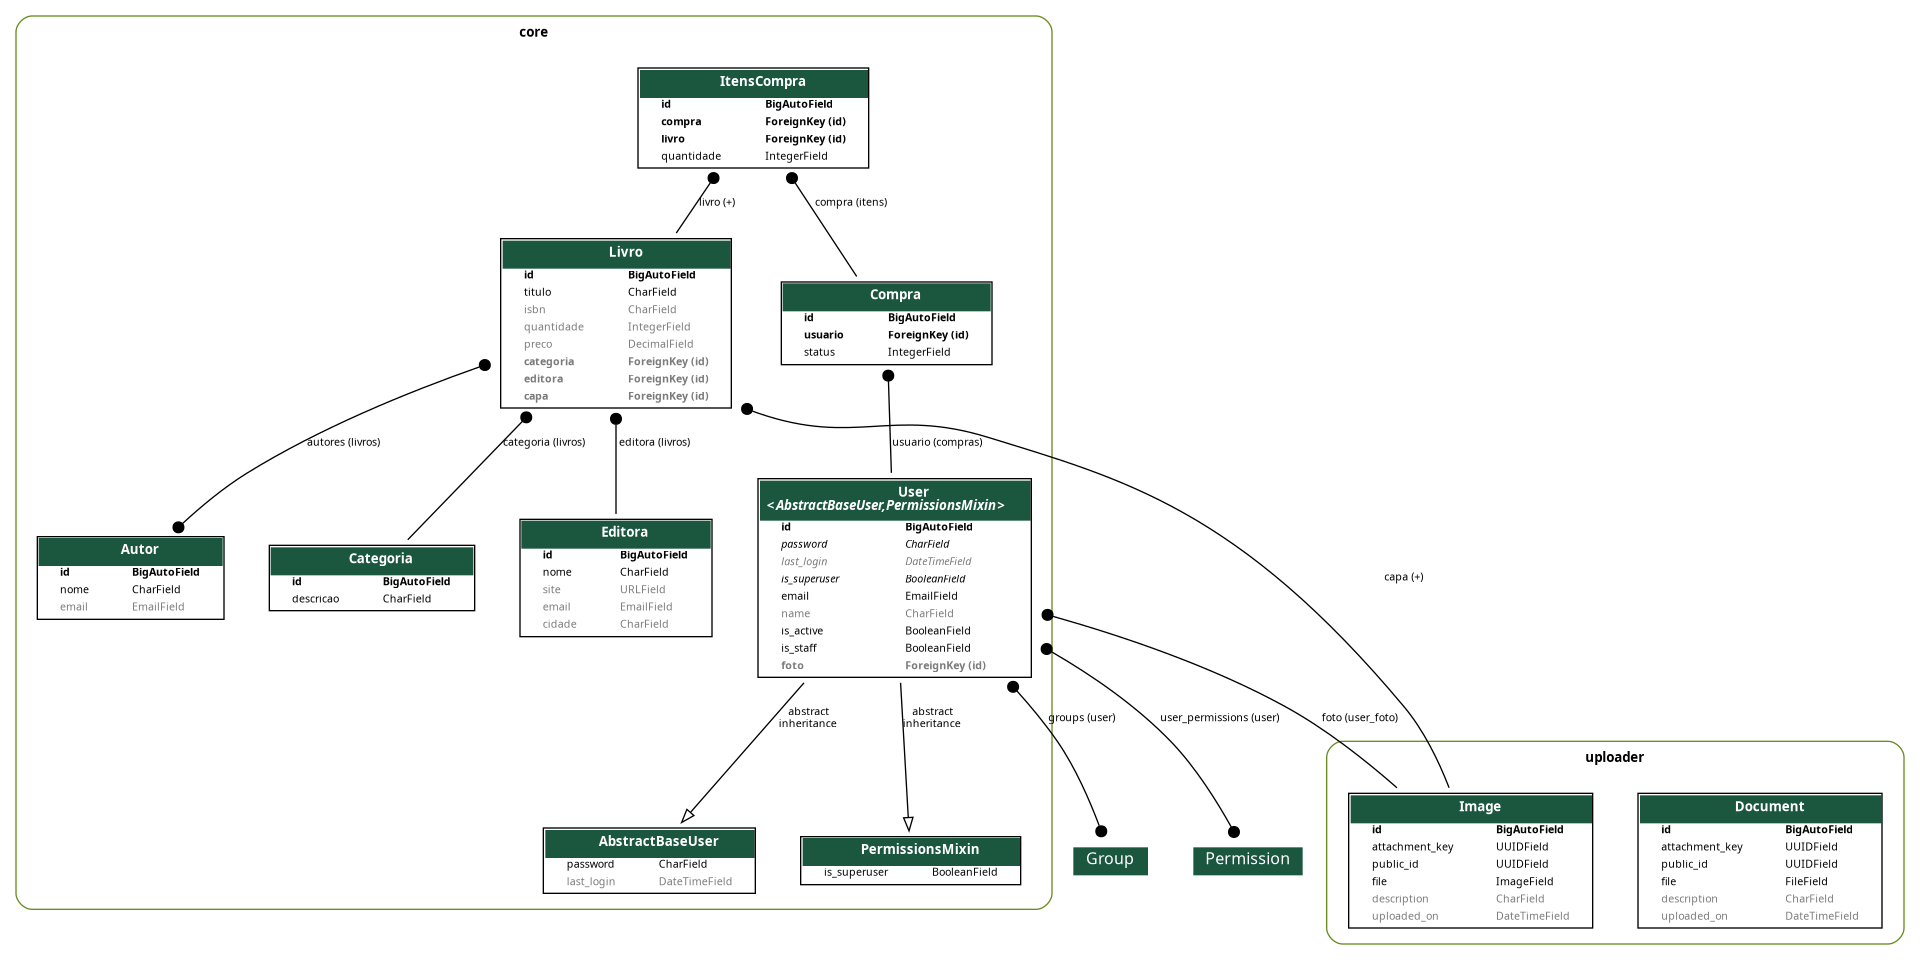
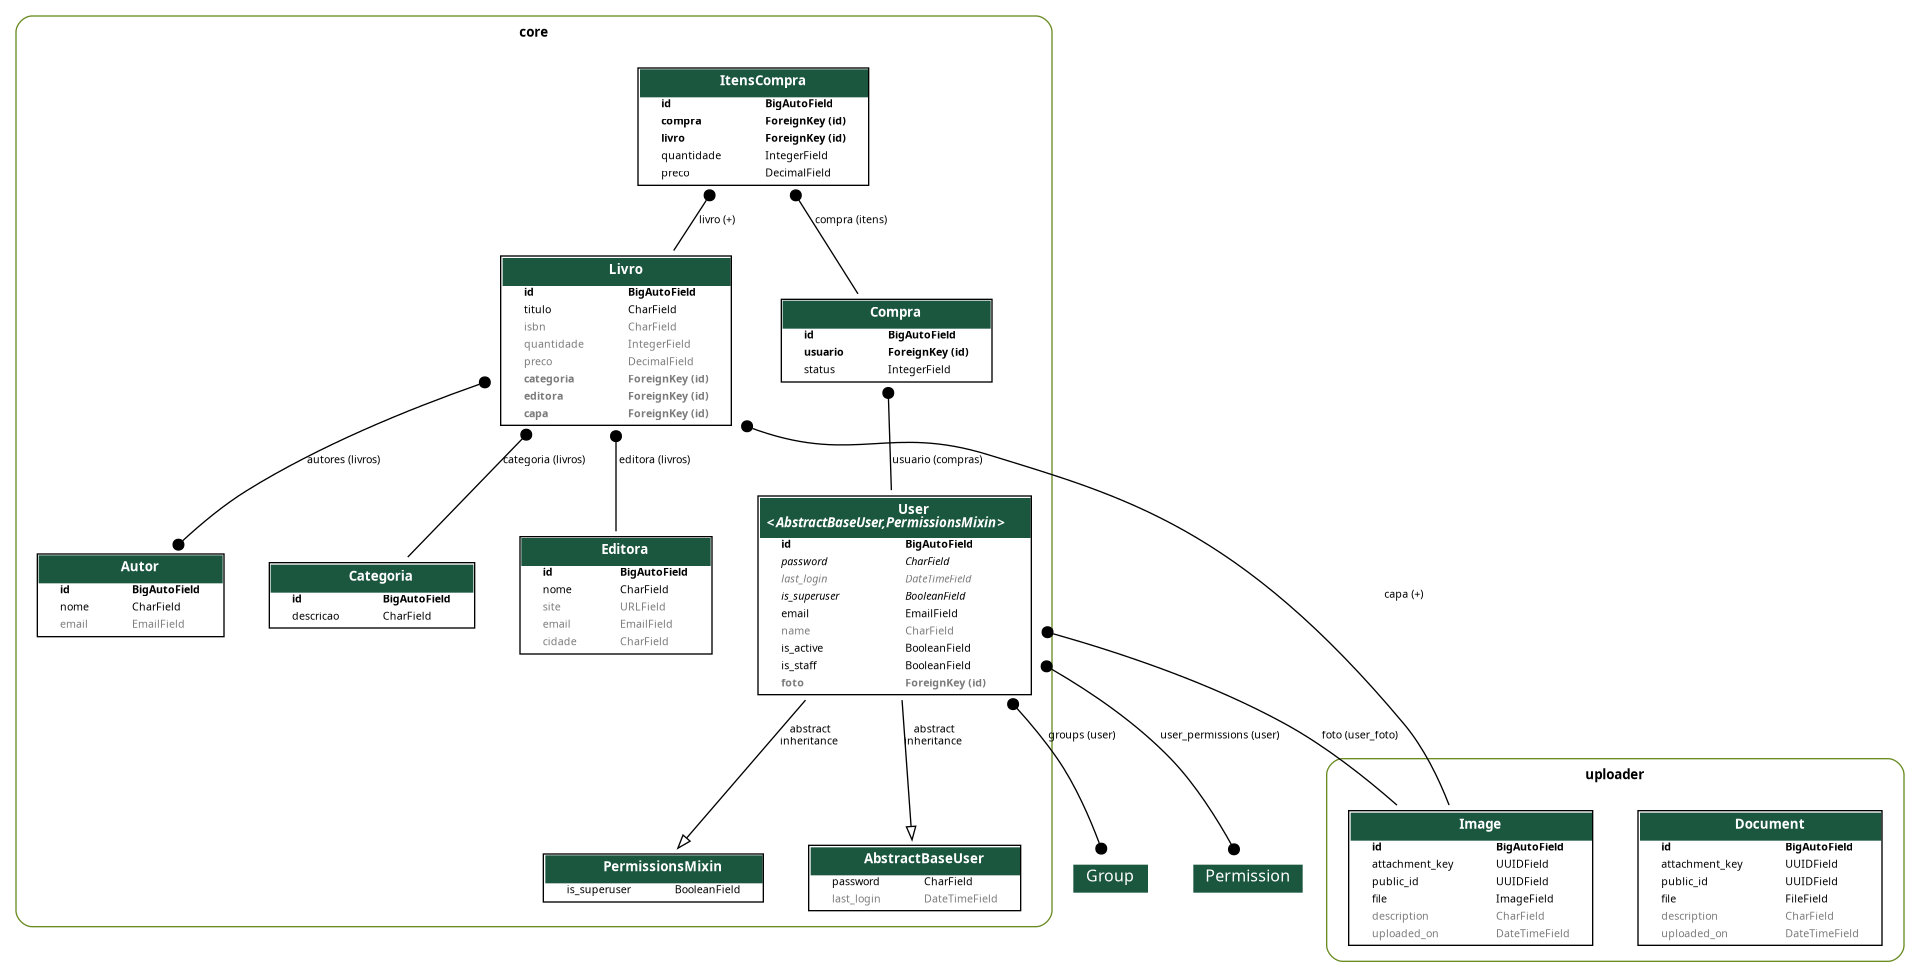
feat: Gravação do preço do livro no item da compra

diff --git a/core/serializers/compra.py b/core/serializers/compra.py
@@ -19,8 +19,8 @@ class ItensCompraSerializer(ModelSerializer):
 
     total = SerializerMethodField()
 
-    def get_total(self, item):
-        return item.livro.preco * item.quantidade
+    def get_total(self, instance):
+        return instance.quantidade * instance.preco
 
     class Meta:
         model = ItensCompra
@@ -32,7 +32,7 @@ class ItensCompraListSerializer(ModelSerializer):
 
     class Meta:
         model = ItensCompra
-        fields = ('quantidade', 'livro')
+        fields = ('quantidade', 'preco', 'livro', 'total')
         depth = 1
 
 
@@ -58,7 +58,7 @@ class CompraSerializer(ModelSerializer):
 class ItensCompraCreateUpdateSerializer(ModelSerializer):
     class Meta:
         model = ItensCompra
-        fields = ('livro', 'quantidade')
+        fields = ('livro', 'quantidade', 'preco')
 
     def validate(self, item):
         if item['quantidade'] > item['livro'].quantidade:
@@ -76,9 +76,11 @@ class CompraCreateUpdateSerializer(ModelSerializer):
 
     @transaction.atomic
     def update(self, compra, validated_data):
-        itens_data = validated_data.pop('itens', None)
-        if itens_data is not None:
+        itens = validated_data.pop('itens')
+        if itens:
             compra.itens.all().delete()
-            for item_data in itens_data:
-                ItensCompra.objects.create(compra=compra, **item_data)
+            for item in itens:
+                item['preco'] = item['livro'].preco  # grava o preço histórico
+                ItensCompra.objects.create(compra=compra, **item)
+        compra.save()
         return super().update(compra, validated_data)

diff --git a/core/models/compra.py b/core/models/compra.py
@@ -15,13 +15,11 @@ class Compra(models.Model):
 
     @property
     def total(self):
-        total = 0
-        for item in self.itens.all():
-            total += item.livro.preco * item.quantidade
-        return total
+        return sum(item.preco * item.quantidade for item in self.itens.all())
 
 
 class ItensCompra(models.Model):
     compra = models.ForeignKey(Compra, on_delete=models.CASCADE, related_name='itens')
     livro = models.ForeignKey('Livro', on_delete=models.PROTECT, related_name='+')
     quantidade = models.IntegerField(default=1)
+    preco = models.DecimalField(max_digits=7, decimal_places=2, default=0)

diff --git a/core/migrations/0015_itenscompra_preco.py b/core/migrations/0015_itenscompra_preco.py
@@ -1,0 +1,18 @@
+# Generated by Django 5.2.13 on 2026-08-18 19:33
+
+from django.db import migrations, models
+
+
+class Migration(migrations.Migration):
+
+    dependencies = [
+        ('core', '0014_user_foto'),
+    ]
+
+    operations = [
+        migrations.AddField(
+            model_name='itenscompra',
+            name='preco',
+            field=models.DecimalField(decimal_places=2, default=0, max_digits=7),
+        ),
+    ]
